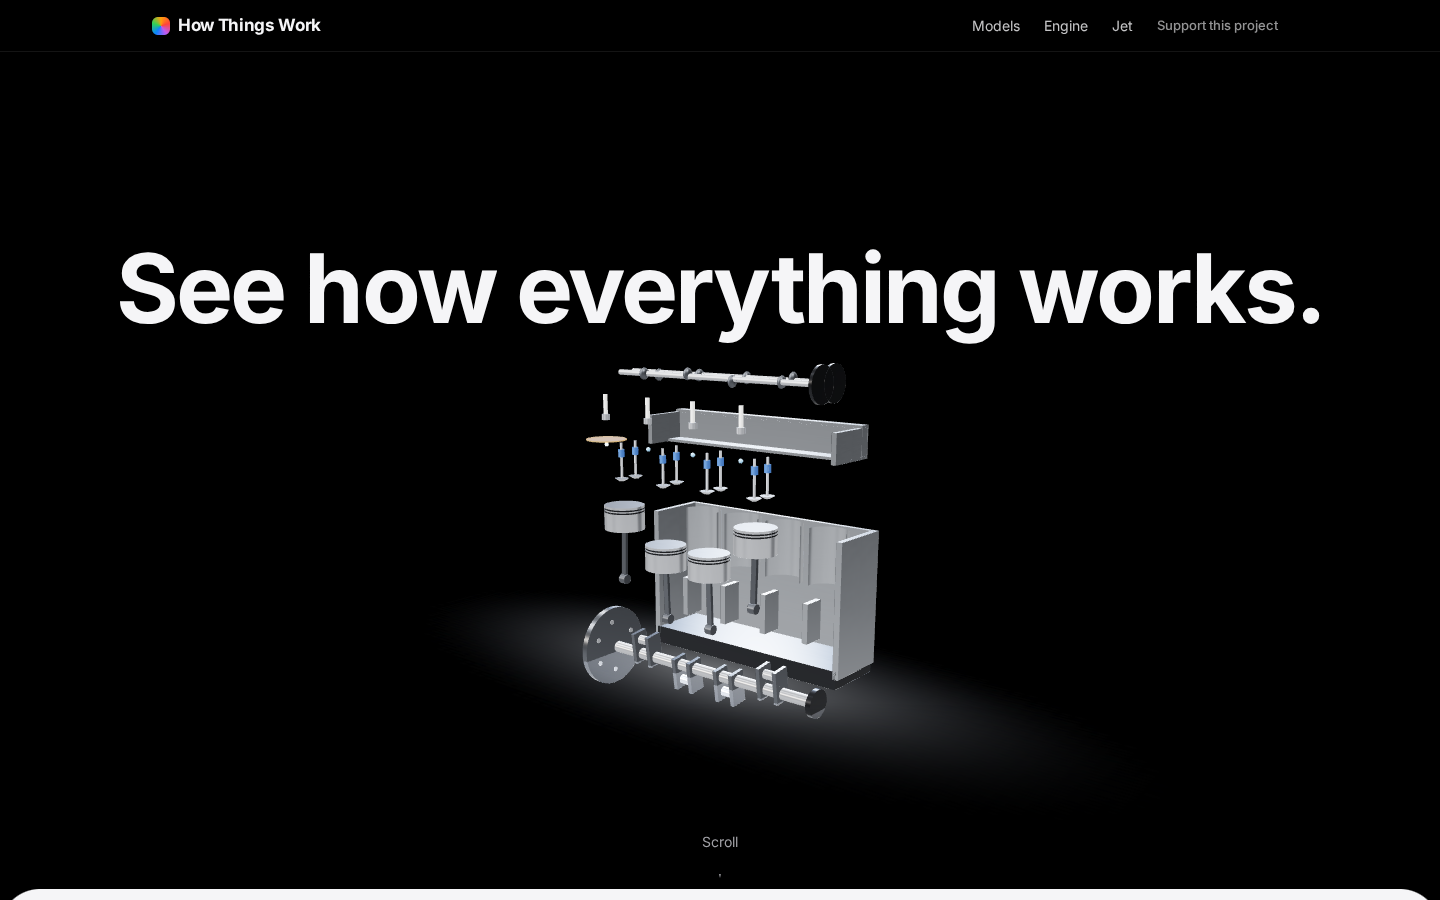
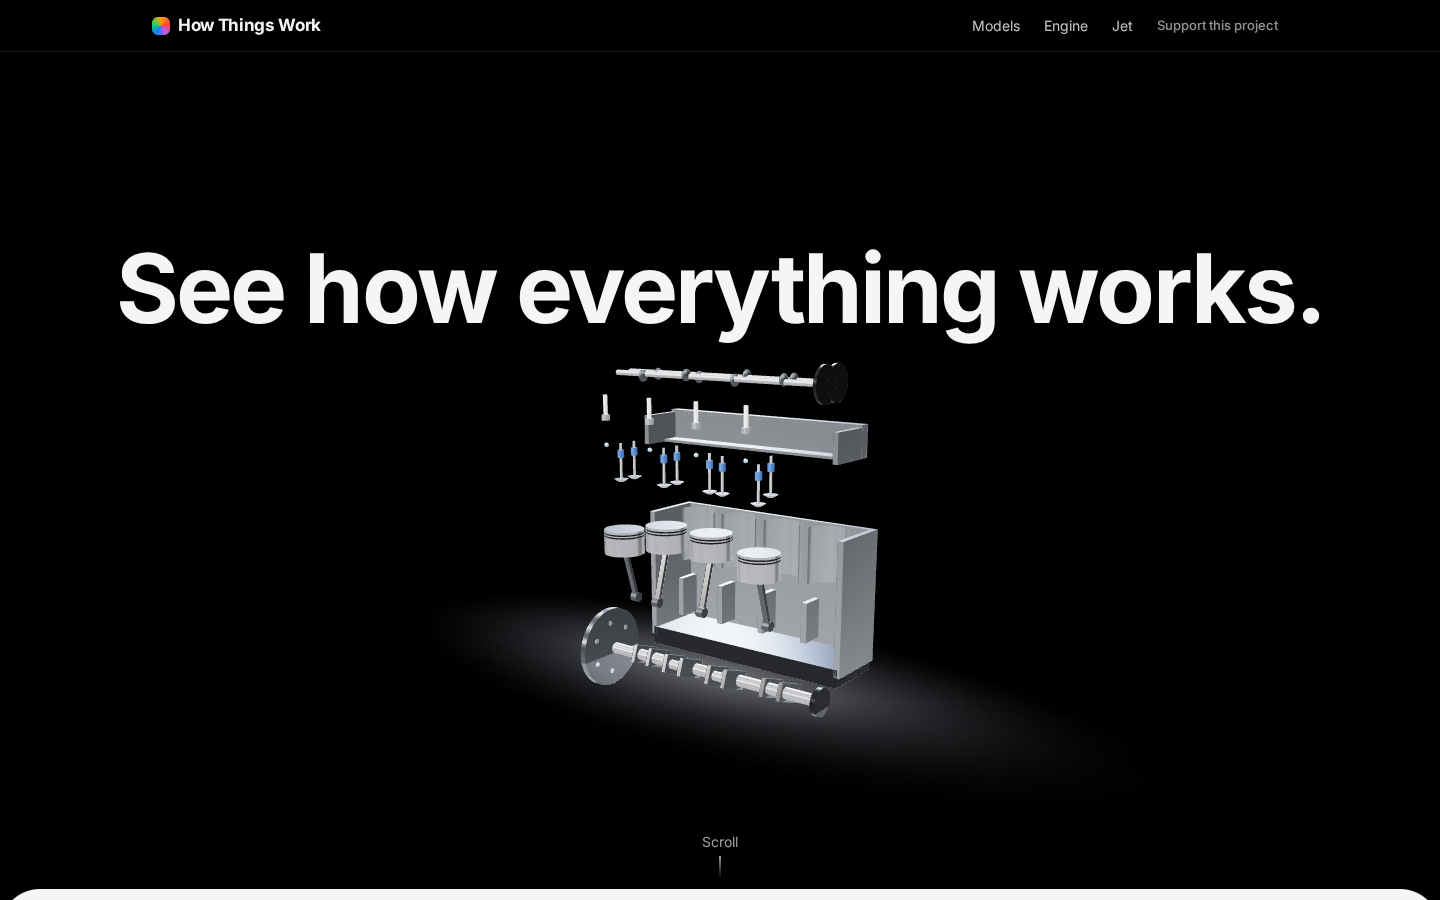
QA: allow running against the live site; add .nojekyll; record QA results

Changed region(s): [[0.4062, 0.4044, 0.5938, 0.8089]]

diff --git a/qa.py b/qa.py
@@ -5,7 +5,8 @@ from playwright.async_api import async_playwright
 from PIL import Image, ImageStat
 sys.path.insert(0, '.')
 from content import MODELS
-BASE = "http://127.0.0.1:8642/how-it-works/"
+import os
+BASE = os.environ.get("QA_BASE", "http://127.0.0.1:8642/how-it-works/")
 SHOTS = "shots/"
 R = []
 def ok(name, cond, info=""): R.append((name, bool(cond), info)); print(("PASS " if cond else "FAIL ") + name + (f"  {info}" if info else ""), flush=True)
